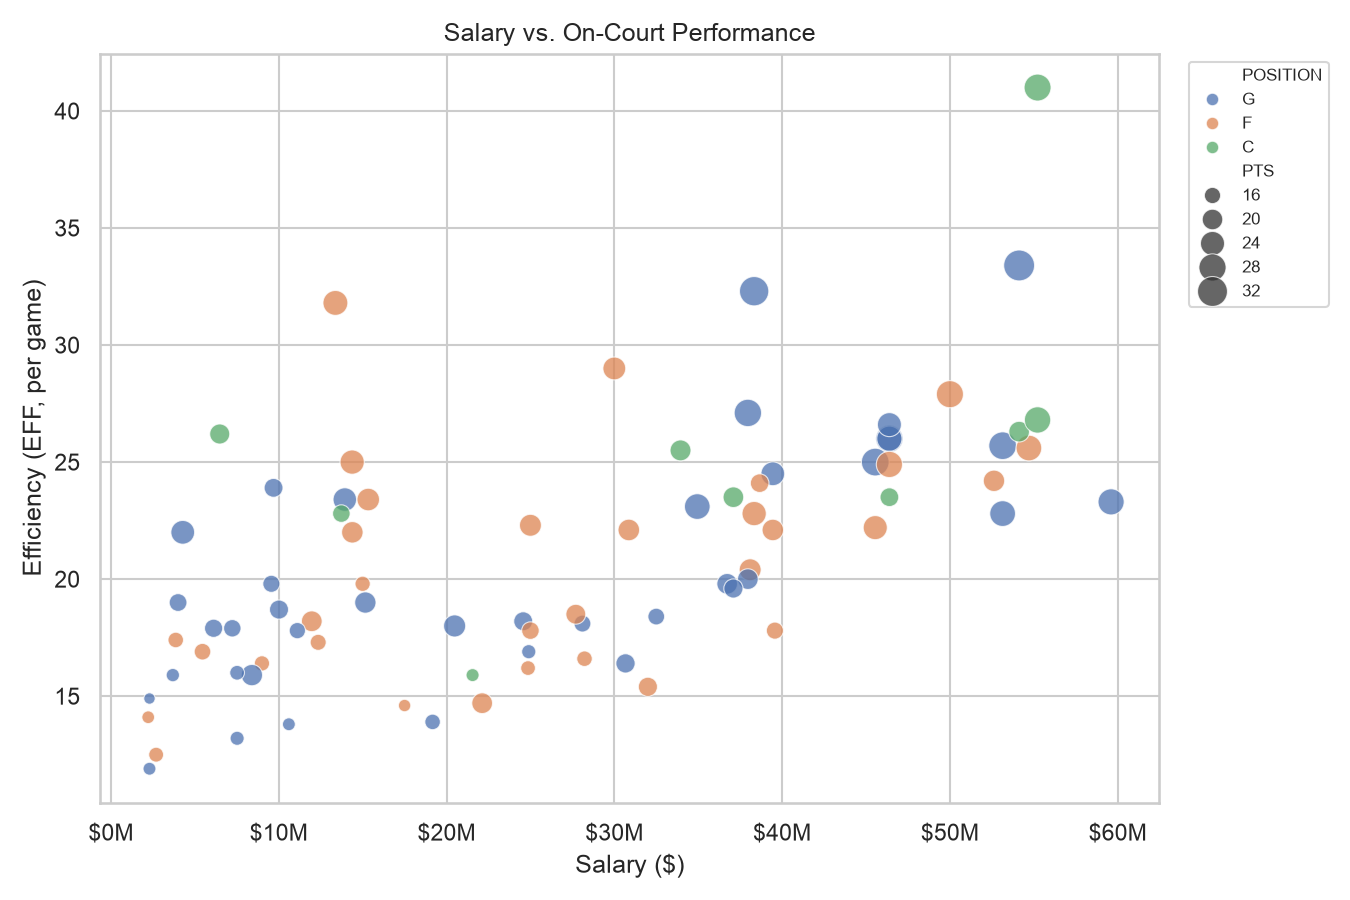
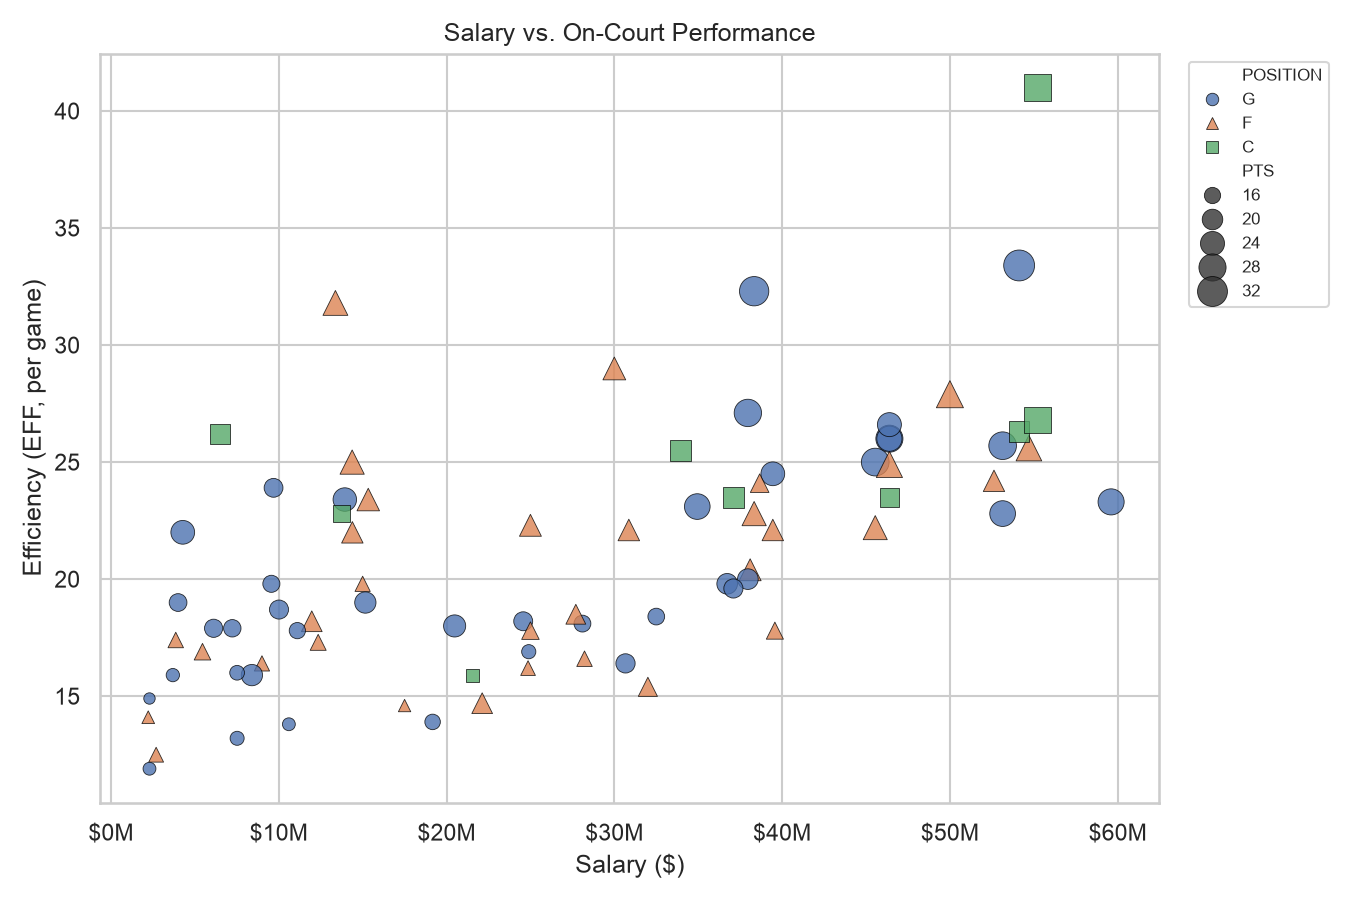
Use distinct marker shapes for position, not just color
The salary-vs-performance scatter now marks position with shape as
well as color (circle/triangle/square for G/F/C), with a thin edge
outline on each marker. Makes the three groups identifiable without
depending on color alone.

diff --git a/visualizations.py b/visualizations.py
@@ -13,11 +13,15 @@ plt.rcParams["savefig.dpi"] = 150
 plt.rcParams["font.size"] = 10
 
 
+POSITION_MARKERS = {"G": "o", "F": "^", "C": "s"}  # circle, triangle, square
+
+
 def plot_salary_vs_performance(df, out_dir: Path = OUTPUT_DIR):
     fig, ax = plt.subplots(figsize=(9, 6))
     sns.scatterplot(
-        data=df, x="SALARY", y="EFF", hue="POSITION", size="PTS",
-        sizes=(30, 220), alpha=0.75, ax=ax,
+        data=df, x="SALARY", y="EFF", hue="POSITION", style="POSITION",
+        markers=POSITION_MARKERS, size="PTS", sizes=(30, 220),
+        alpha=0.8, edgecolor="black", linewidth=0.4, ax=ax,
     )
     ax.set_xlabel("Salary ($)")
     ax.set_ylabel("Efficiency (EFF, per game)")

diff --git a/CHARTS.md b/CHARTS.md
@@ -6,7 +6,7 @@ What each chart in this project shows, with the real numbers behind it. Regenera
 
 ![Salary vs Performance](examples/salary_vs_performance.png)
 
-Each dot is one of the 80 highest-scoring players in the 2025-26 season. Salary runs along the x-axis, EFF along the y-axis, dot size tracks points per game, and color marks position: guard, forward, or center.
+Each marker is one of the 80 highest-scoring players in the 2025-26 season. Salary runs along the x-axis, EFF along the y-axis, marker size tracks points per game, and both color and shape mark position: circles for guards, triangles for forwards, squares for centers.
 
 The two variables correlate at 0.62, real but loose. Nikola Jokić sits at the top: a $55.2M salary paired with an EFF of 41.0, the highest mark here. Victor Wembanyama, three seasons into a rookie-scale deal worth $13.4M, posts a 31.8, closer to Jokić's number than to what his own paycheck would predict. Dots thin out below $10M but don't disappear. Jalen Duren earns $6.5M and posts a 26.2, a better mark than half of the ten highest-paid players on this chart.
 
